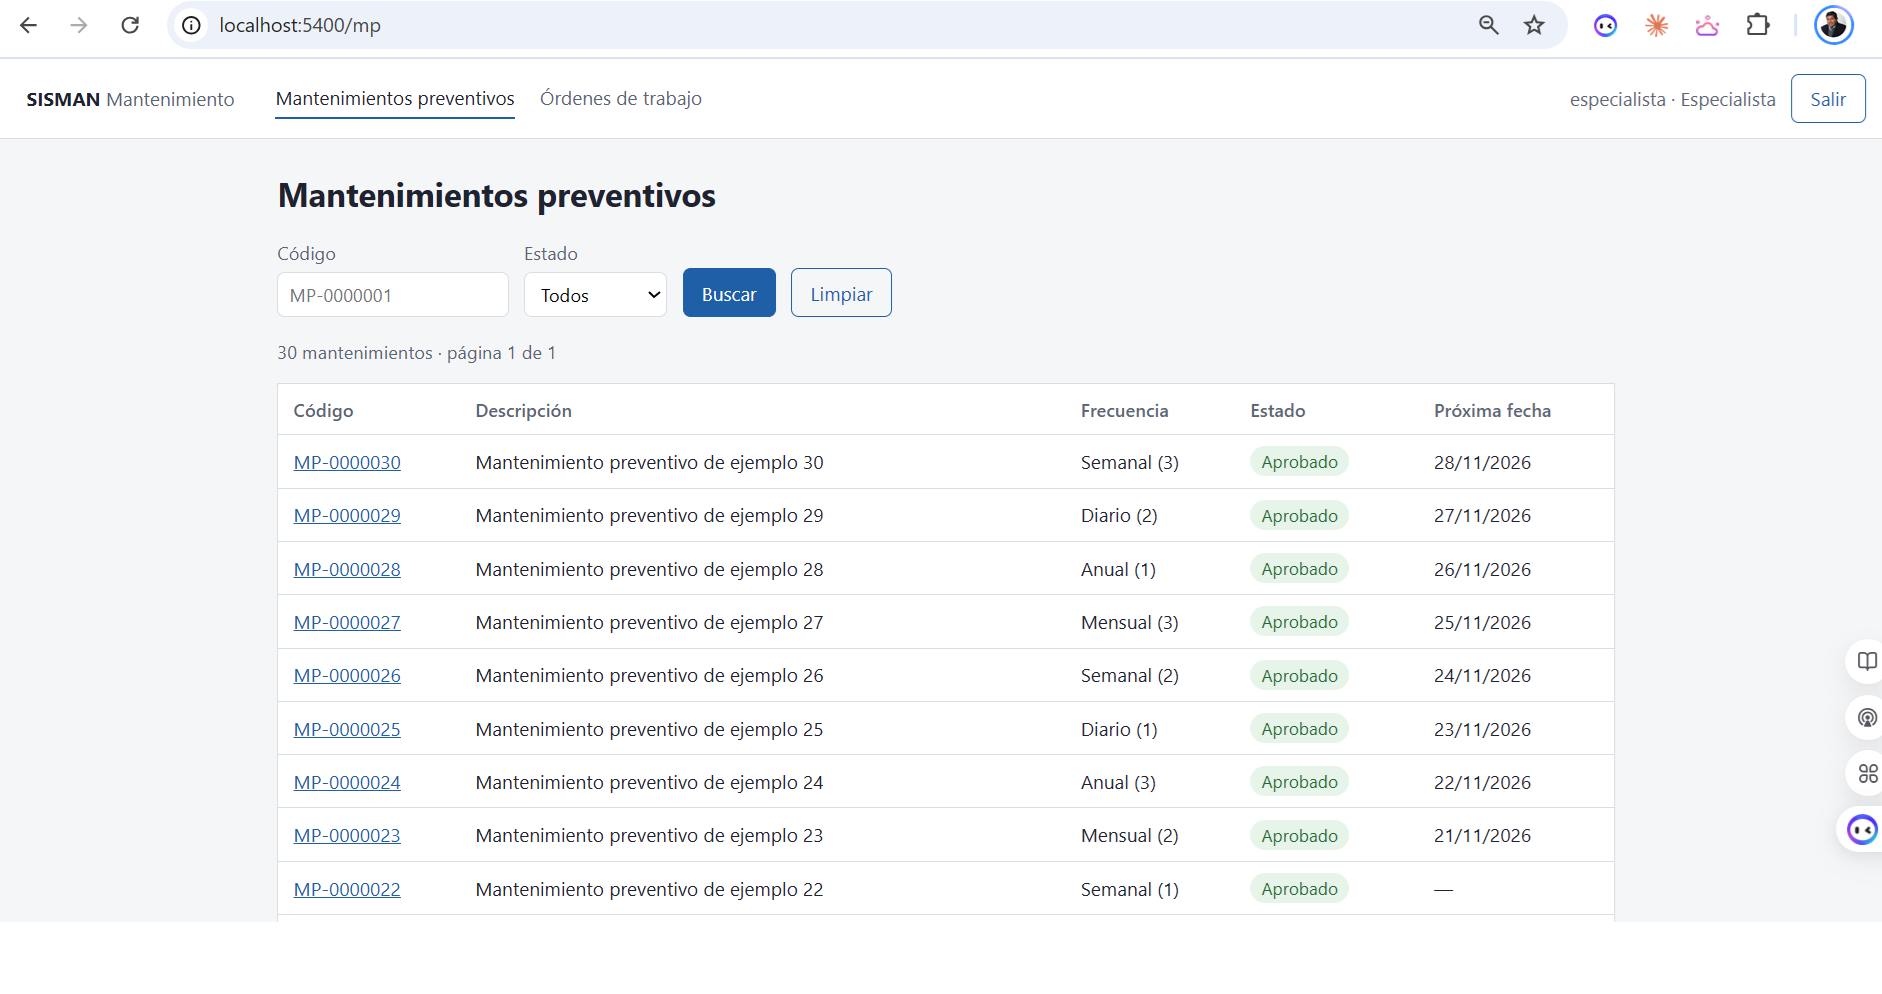
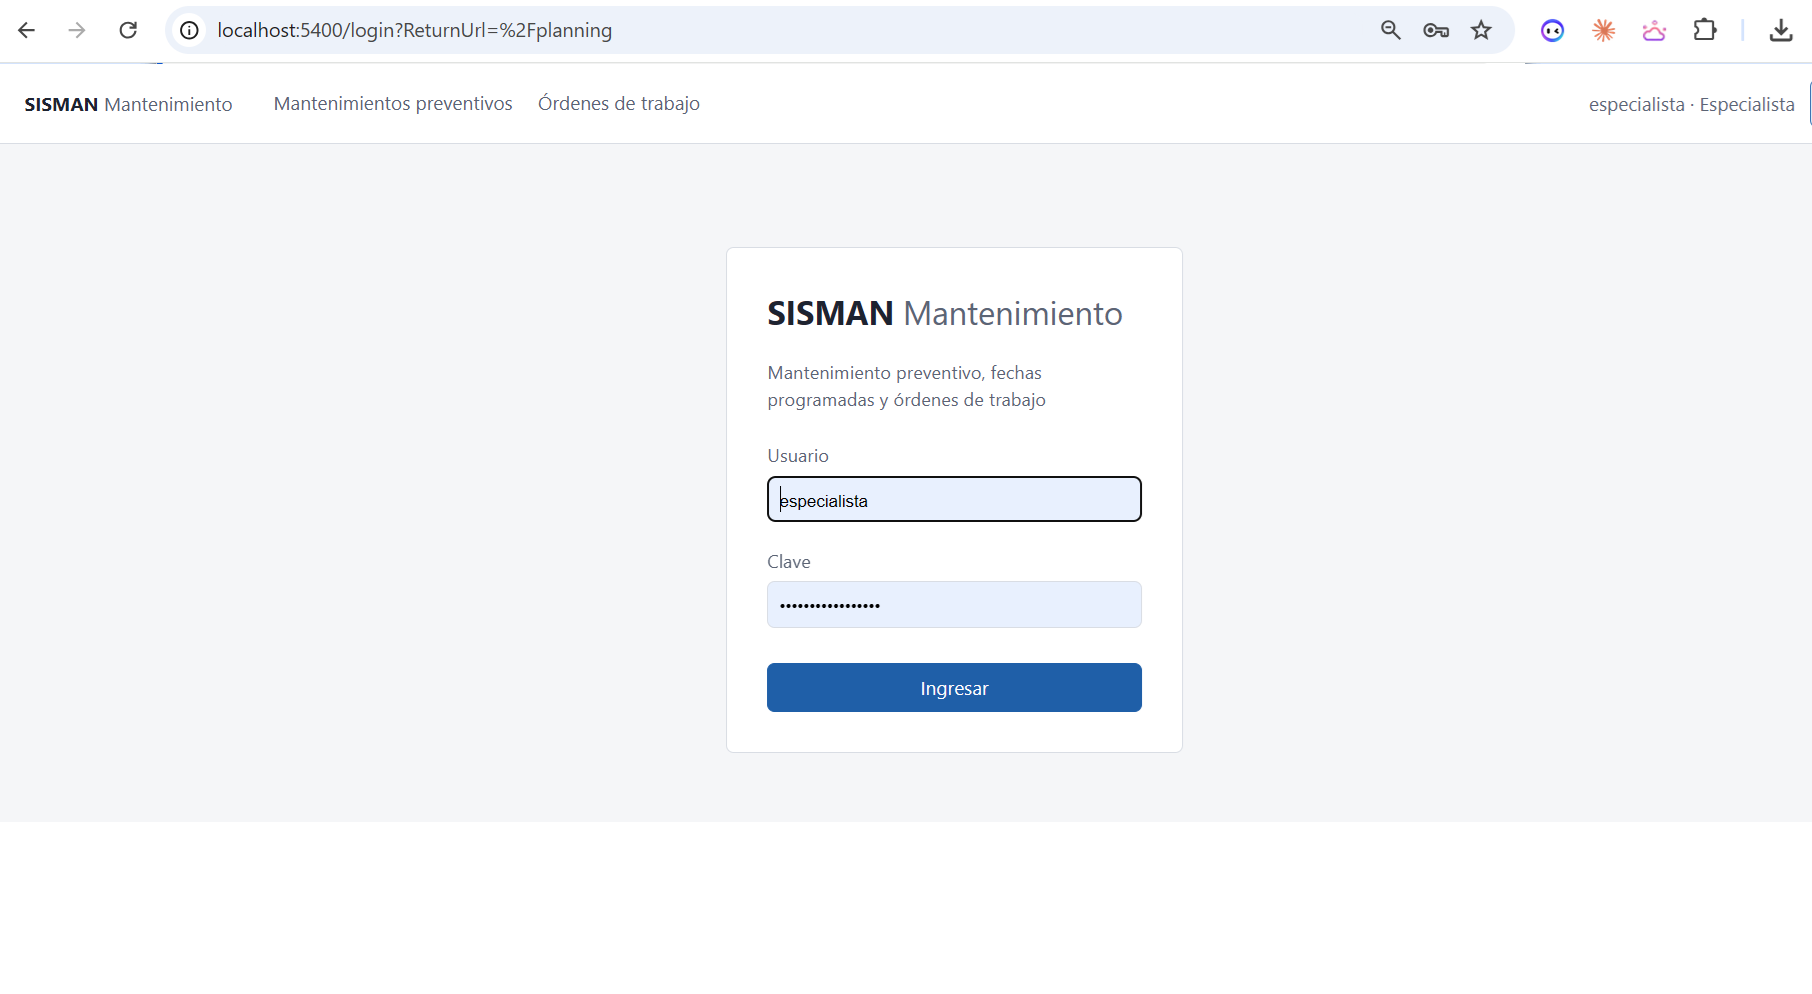
docs(ia,reglas): revision del responsable de las evidencias 004 a 016 (checklist 41)
- Linea fechada de revision humana en 004, 007 a 016 con las respuestas
  del responsable; 004 sigue pendiente (rotar la clave, para el DBA).
- RN-15, RN-16, RN-23 y RN-37 confirmadas; RN-37 deja de ser propuesta.
- Nueva RN-17: validacion de referencias del MP (mp.referencia-invalida),
  aprobada por el responsable; trazabilidad de RF-01 y RF-03 y documento
  tecnico (35 reglas) actualizados.
- Capturas enlazadas en 009, 011, 013 y 014; captura 07 reemplazada
  (especialista que abre /planning vuelve al login).
- Resumen: aprendizajes 5 a 7.

diff --git a/specs/functional/reglas.md b/specs/functional/reglas.md
@@ -21,8 +21,9 @@ Marcas: **[heredada]** reproduce el comportamiento del sistema original · **[co
 | RN-12 | La frecuencia tiene **un solo catálogo**: 1 Diario, 2 Semanal, 3 Mensual, 4 Anual, con un valor entero mayor que cero | [corrige] FE-7: el alta y la lectura del original usaban códigos distintos | Alta con frecuencia 0 o 5 → 400 |
 | RN-13 | Si la frecuencia es mensual o anual, el **mes** es obligatorio y se guarda | [corrige] MP-2: el original lo descartaba | Alta mensual → el mes se devuelve en la consulta |
 | RN-14 | Editar un MP lo deja en estado **Modificado** y registra quién y cuándo. No se conserva la versión anterior | [heredada] MP-3 | Edición → estado «Modificado», usuario y fecha |
-| RN-15 | Aprobar un MP lo pasa a **Aprobado** y registra quién y cuándo. Un MP ya aprobado no se aprueba de nuevo (409) | [heredada] MP-5; no cambia las fechas ya programadas [decidido 2026-10-26, D5] | Aprobar dos veces → 409 |
-| RN-16 | Un MP **Modificado** se puede aprobar de nuevo | [decidido 2026-10-26: sí] | Edición y aprobación → estado «Aprobado» |
+| RN-15 | Aprobar un MP lo pasa a **Aprobado** y registra quién y cuándo. Un MP ya aprobado no se aprueba de nuevo (409) | [heredada] MP-5; no cambia las fechas ya programadas [decidido 2026-10-26, D5] [confirmado 2026-10-28] | Aprobar dos veces → 409 |
+| RN-16 | Un MP **Modificado** se puede aprobar de nuevo | [decidido 2026-10-26: sí] [confirmado 2026-10-28] | Edición y aprobación → estado «Aprobado» |
+| RN-17 | La máquina, el sistema, el equipo y los cuatro catálogos indicados deben existir; el sistema debe pertenecer a la máquina, el equipo al sistema y cada catálogo a su categoría. Si no, 400 `mp.referencia-invalida` | [nueva] evidencia 010; numerada con aprobación del responsable el 2026-10-28 | Máquina inexistente → 400; equipo de otro sistema → 400 |
 
 ## Fechas programadas (RF-05, RF-06)
 
@@ -31,7 +32,7 @@ Marcas: **[heredada]** reproduce el comportamiento del sistema original · **[co
 | RN-20 | La fecha de inicio debe ser **posterior a hoy**; lo valida el servidor | [corrige] FE-8: el original lo validaba solo en el navegador | Inicio igual o anterior a hoy → 400 |
 | RN-21 | La fecha de inicio no puede ser posterior a la de fin | [nueva] | Inicio mayor que fin → 400 |
 | RN-22 | Solo se programa fechas para un MP **Aprobado**. Un MP aprobado que se edita pasa a **Modificado** y no admite fechas nuevas ni OT hasta que se vuelva a aprobar | MP-5; confirmado con el responsable el 2026-10-26 | MP no aprobado → 409; MP modificado → 409 hasta aprobarlo de nuevo |
-| RN-23 | No se programan dos fechas con el mismo inicio para el mismo MP | [nueva] [decidido 2026-10-26: sí] | Segunda fecha igual → 409 |
+| RN-23 | No se programan dos fechas con el mismo inicio para el mismo MP | [nueva] [decidido 2026-10-26: sí] [confirmado 2026-10-28] | Segunda fecha igual → 409 |
 | RN-24 | La fecha nace **sin OT**. Al crearla, el MP actualiza su fecha de inicio y la próxima con el inicio, y su fecha última con el fin | [heredada] FE-1, FE-4 | Alta de fecha → MP con esas fechas |
 | RN-25 | Solo se elimina una fecha que **no tiene OT** | [heredada] estado 0 de FE-5 | Eliminar una fecha con OT → 409 |
 
@@ -46,7 +47,7 @@ Marcas: **[heredada]** reproduce el comportamiento del sistema original · **[co
 | RN-34 | Con 20 solicitudes simultáneas se obtienen 20 números distintos y consecutivos | [corrige] hallazgo 1 | Prueba concurrente (RNF-02) |
 | RN-35 | La fecha objetivo de la OT es el inicio de la fecha programada; la fecha queda enlazada (número de OT y estado «con OT») | [heredada] OT-3, FE-3 | Consulta de la fecha tras generar |
 | RN-36 | Estados de la OT: 37 Solicitud, 38 Anulación, 39 En programación, 40 Pendiente, 41 Concluido, 42 Concluido por anulación | [heredada] OT-7 | Catálogo de estados |
-| RN-37 | **Transiciones permitidas** (propuesta): Solicitud → En programación → Pendiente → Concluido; Pendiente → Anulación → Concluido por anulación; **Concluido → Pendiente** (reapertura). Cualquier otra → 409 | OT-10 (el original no tiene reglas) y la validación con el usuario sobre la reapertura. **[decidido 2026-10-26: la reapertura se permite]** | Una prueba por transición permitida y una por prohibida |
+| RN-37 | **Transiciones permitidas**: Solicitud → En programación → Pendiente → Concluido; Pendiente → Anulación → Concluido por anulación; **Concluido → Pendiente** (reapertura). Cualquier otra → 409 | OT-10 (el original no tiene reglas) y la validación con el usuario sobre la reapertura. **[decidido 2026-10-26: la reapertura se permite] [confirmado 2026-10-28]** | Una prueba por transición permitida y una por prohibida |
 | RN-38 | Cada cambio de estado registra quién y cuándo | [nueva] | Historial del estado |
 
 ## Consulta (RF-02, RF-08, RF-10)

diff --git a/docs/trazabilidad.md b/docs/trazabilidad.md
@@ -4,9 +4,9 @@ RF → Historia → Caso de uso → Reglas → Endpoint → Clase → Prueba. Se
 
 | RF | Historia | Caso de uso | Reglas | Endpoint | Clase | Prueba | Estado |
 |---|---|---|---|---|---|---|---|
-| RF-01 Registrar MP | HU-01 | CU-01 | RN-10 a RN-13, RN-53 | POST /mantenimientos-preventivos | `MantenimientosPreventivosController.Crear`, `MpServicio.CrearAsync` (correlativo `MP` en transacción), `MantenimientoPreventivo.Crear` | `AmpliacionTests` (alta, código consecutivo, 400, referencia ajena, 403) y `DominioTests` (RN-10 a RN-13) | Implementado (2026-10-23) |
+| RF-01 Registrar MP | HU-01 | CU-01 | RN-10 a RN-13, RN-17, RN-53 | POST /mantenimientos-preventivos | `MantenimientosPreventivosController.Crear`, `MpServicio.CrearAsync` (correlativo `MP` en transacción), `MantenimientoPreventivo.Crear` | `AmpliacionTests` (alta, código consecutivo, 400, referencia ajena, 403) y `DominioTests` (RN-10 a RN-13) | Implementado (2026-10-23) |
 | RF-02 Consultar MP | HU-02 | CU-02 | RN-40, RN-42 | GET /mantenimientos-preventivos | `MantenimientosPreventivosController`, `MpServicio`, `MpRepositorio` | `MantenimientosPreventivosTests` (consulta, paginación, filtros, detalle, 404) | Implementado (2026-10-23) |
-| RF-03 Editar MP | HU-03 | CU-03 | RN-14, RN-53 | PUT /mantenimientos-preventivos/{id} | `MantenimientosPreventivosController.Editar`, `MantenimientoPreventivo.Modificar` | `MantenimientosPreventivosTests` (edición, 400, 403, referencias) y `DominioTests` | Implementado (2026-10-23) |
+| RF-03 Editar MP | HU-03 | CU-03 | RN-14, RN-17, RN-53 | PUT /mantenimientos-preventivos/{id} | `MantenimientosPreventivosController.Editar`, `MantenimientoPreventivo.Modificar` | `MantenimientosPreventivosTests` (edición, 400, 403, referencias) y `DominioTests` | Implementado (2026-10-23) |
 | RF-04 Aprobar MP | HU-04 | CU-04 | RN-15, RN-16 | POST /mantenimientos-preventivos/{id}/aprobacion | `MantenimientosPreventivosController.Aprobar`, `MantenimientoPreventivo.Aprobar` | `MantenimientosPreventivosTests` (aprobar, reaprobar, 403, 404) y `DominioTests` | Implementado (2026-10-23) |
 | RF-05 Programar fecha | HU-05 | CU-05 | RN-20 a RN-24 | POST /mantenimientos-preventivos/{id}/fechas | `MantenimientosPreventivosController.ProgramarFecha`, `MantenimientoPreventivo.ProgramarFecha` | `MantenimientosPreventivosTests` (RN-20 a RN-24, 403) y `DominioTests` | Implementado (2026-10-23) |
 | RF-06 Eliminar fecha | HU-06 | — | RN-25 | DELETE /mantenimientos-preventivos/{id}/fechas/{fechaId} | `MantenimientosPreventivosController.EliminarFecha`, `MantenimientoPreventivo.QuitarFecha` | `AmpliacionTests` (204, 409 con OT, 404, 403) y `DominioTests` | Implementado (2026-10-23) |

diff --git a/docs/documento-tecnico.md b/docs/documento-tecnico.md
@@ -35,7 +35,7 @@ El sistema original tenía cuatro problemas que este módulo resuelve y prueba:
 | RF-11 | Iniciar sesión con JWT | M |
 | RF-12 | Exportar OT a Excel | C |
 
-Las especificaciones completas están en `specs/functional/`: requisitos, 12 historias con criterios Dado/Cuando/Entonces, 9 casos de uso y 34 reglas `RN-xx`, cada una con su origen (heredada, corrige un defecto, nueva o a validar). La matriz `docs/trazabilidad.md` enlaza RF → historia → caso de uso → reglas → endpoint → clase → prueba.
+Las especificaciones completas están en `specs/functional/`: requisitos, 12 historias con criterios Dado/Cuando/Entonces, 9 casos de uso y 35 reglas `RN-xx` (RN-17 se numeró el 2026-10-28), cada una con su origen (heredada, corrige un defecto, nueva o a validar). La matriz `docs/trazabilidad.md` enlaza RF → historia → caso de uso → reglas → endpoint → clase → prueba.
 
 **Fuera del módulo:** reportes en PDF, rotativa, asignación y consumo de personal, informe de falla, plan de trabajo, seguridad compartida con otros sistemas y migración de datos del original.
 

diff --git a/docs/ia/013-web-minima.md b/docs/ia/013-web-minima.md
@@ -31,3 +31,14 @@ El asistente creó el proyecto Razor Pages con: cliente tipado de la API que lee
 **Aceptado.** Pendiente de revisión humana: probar la web en un navegador (el recorrido fue por HTTP, no se vio la pantalla) y revisar el estilo.
 
 **No verificado:** el Compose con la web (Docker no está instalado). Los mensajes de transición prohibida usan el nombre interno del estado (por ejemplo «EnProgramacion»), sin tildes ni espacios.
+
+## Revisión humana
+
+**Revisión del responsable (2026-10-28, checklist 41):** vio las pantallas en el navegador y el estilo le parece aceptable. Los mensajes de transición ya se ven con el nombre legible del estado (commit `5b3c877`).
+
+## Capturas
+
+- [04 — lista de MP del planificador](capturas/04-lista-mp.png)
+- [05 — validación al registrar un MP](capturas/05-alta-mp-validacion.png)
+- [06 — planning del mes](capturas/06-planning-mes.png)
+- [07 — el especialista que abre /planning vuelve al login](capturas/07-especialista-sin-planning.png) (reemplazada el 2026-10-28)

diff --git a/docs/ia/resumen.md b/docs/ia/resumen.md
@@ -37,5 +37,8 @@ Análisis de un sistema grande en poco tiempo, comparación automática de respu
 2. Un resultado de «éxito» en pantalla no es una prueba (002).
 3. Las decisiones destructivas (reescribir el historial) se piden, no se toman (004).
 4. Añadir archivos por nombre, no por carpeta (006).
+5. El entorno se decide el primer día: la decisión sobre Docker cambió tres veces y dejó planes superados (015).
+6. El responsable corrige a la IA: la IA recomendó conservar `docker/` y se eligió quitarlo (015).
+7. Se verifica contra el código y la pantalla, no contra lo que dice un documento (013, 014).
 
 *Capturas en `capturas/` (2026-10-27): 01 pruebas (121 en verde), 02 Swagger, 03 y 06 planning, 04 lista de MP del planificador, 05 validación al editar, 07 sesión del especialista y 08 árbol sin Docker. 2026-10-28: 09 respuesta del instructor del 24/10 (evidencia 016) y 03 sin la barra del navegador. Pendiente: entradas por cada tarea de construcción.*

diff --git a/docs/ia/014-completar-todas-las-opciones.md b/docs/ia/014-completar-todas-las-opciones.md
@@ -45,3 +45,14 @@
 ## Revisión humana
 
 Pendiente: probar las pantallas nuevas en el navegador y confirmar las cuatro decisiones.
+
+**Revisión del responsable (2026-10-28, checklist 41):** probó en el navegador el alta, la edición, la exportación y el planning, y acepta las cuatro decisiones (eliminar una fecha no recalcula las fechas del MP; planning de hasta 92 días; exportación de hasta 10 000 filas; listas agrupadas por máquina). El fallo intermitente **no se ha repetido**.
+
+**Nota (2026-10-28):** el total de este registro (119 pruebas) es el de su fecha; hoy son 121.
+
+## Capturas
+
+- [01 — 121 pruebas en verde](capturas/01-pruebas-121-verdes.png)
+- [05 — validación al registrar un MP](capturas/05-alta-mp-validacion.png)
+- [06 — planning del mes](capturas/06-planning-mes.png)
+- [07 — el especialista que abre /planning vuelve al login](capturas/07-especialista-sin-planning.png)

diff --git a/docs/ia/015-retiro-de-docker.md b/docs/ia/015-retiro-de-docker.md
@@ -59,3 +59,5 @@ Consecuencias que el ADR-007 deja escritas:
 ![Raíz del repositorio sin la carpeta docker/](capturas/08-arbol-sin-docker.png)
 
 `capturas/08-arbol-sin-docker.png` (2026-10-27): raíz del repositorio con `docs`, `specs`, `src` y `tests`, sin `docker/`. El ADR-007 está en `docs/adr/` y no aparece en esta captura.
+
+**Revisión del responsable (2026-10-28, checklist 41):** en sus palabras: «Docker quedó fuera luego de consultar al profesor». Se registra como lo dice el responsable. La respuesta escrita del instructor que está en el repositorio (24/10, evidencia 016) describe Docker como «muy recomendado y parte de la estructura esperada»; la consulta posterior no tiene registro escrito aquí. Las notas en ADR-001, ADR-006 y `plan-de-trabajo.md` se añadieron el 2026-10-28 (commit `28da902`).

diff --git a/docs/ia/009-solucion-base-net10.md b/docs/ia/009-solucion-base-net10.md
@@ -33,3 +33,9 @@ El asistente creó la solución (4 proyectos y 2 de pruebas), las reglas en el d
 ## Revisión humana
 
 Pendiente: el responsable debe revisar el modelo de datos y las reglas del dominio (en especial RN-37, las transiciones de estado, que siguen a validar con un usuario).
+
+**Revisión del responsable (2026-10-28, checklist 41):** revisó el modelo de datos y las reglas del dominio, sin cambios; RN-37 confirmada (ver 007). «No verificado: docker compose up» queda cerrado por la evidencia 015 (ADR-007); el texto de arriba se conserva como registro de su fecha.
+
+## Capturas
+
+- [01 — 121 pruebas en verde](capturas/01-pruebas-121-verdes.png) (2026-10-27)

diff --git a/docs/ia/004-secreto-en-el-historial.md b/docs/ia/004-secreto-en-el-historial.md
@@ -24,3 +24,5 @@ Informe: documento 24 del repositorio de modernización (`70d69b3`). No se modif
 ## Revisión humana
 
 El responsable decidió trabajar en un repositorio separado y limpio (ADR-002).
+
+**Revisión del responsable (2026-10-28, checklist 41):** la rotación de la clave y la limpieza del historial del repositorio de modernización **siguen pendientes**; quedan para entregarlas al DBA. Este repositorio no tiene archivos del sistema original. Búsqueda de secretos en este repositorio y su historial (2026-10-28): limpia; solo aparece la constante `ClaimToken`, que es el nombre de un dato.

diff --git a/docs/ia/010-endpoints-mp-rf02-rf05.md b/docs/ia/010-endpoints-mp-rf02-rf05.md
@@ -35,3 +35,5 @@ El asistente añadió el servicio de aplicación `MpServicio`, los validadores (
 ## Revisión humana
 
 Pendiente: el responsable debe revisar las cuatro decisiones de arriba.
+
+**Revisión del responsable (2026-10-28, checklist 41):** acepta las cuatro decisiones: filtro por fecha de inicio, frecuencia como entero 1 a 4 y estado como texto, filtro de código «contiene» y validación de referencias, que pasa a ser la regla **RN-17**. Acepta la limitación de concurrencia en la edición (sin token de versión del cliente) y se dirá así en la exposición.

diff --git a/docs/ia/011-rf07-correlativo-transaccional.md b/docs/ia/011-rf07-correlativo-transaccional.md
@@ -33,3 +33,9 @@ El asistente implementó `OtServicio.GenerarAsync` dentro de una transacción ej
 ## Revisión humana
 
 Pendiente: revisión del diff por el responsable.
+
+**Revisión del responsable (2026-10-28, checklist 41):** revisó el código del correlativo y la prueba de 20 solicitudes (commit `1445bfe`). Acepta sin prueba adicional los dos casos sin prueba específica (error 500 si falla la unicidad; MP no aprobado después de tomar el número).
+
+## Capturas
+
+- [01 — 121 pruebas en verde](capturas/01-pruebas-121-verdes.png) (2026-10-27)

diff --git a/docs/ia/016-respuesta-del-instructor.md b/docs/ia/016-respuesta-del-instructor.md
@@ -49,3 +49,5 @@ La recomendación final del instructor fue documentar bien las especificaciones 
 ![Respuesta del instructor, puntos 1 a 11](capturas/09-mensaje-instructor.png)
 
 `capturas/09-mensaje-instructor.png` (2026-10-28): mensaje original del instructor con las respuestas a los puntos 1 a 11. El responsable quitó los datos personales antes de guardarla.
+
+**Revisión del responsable (2026-10-28, checklist 41):** confirma que la tabla reproduce fielmente el mensaje del instructor y se queda con la excepción de Docker (ver la evidencia 015).
